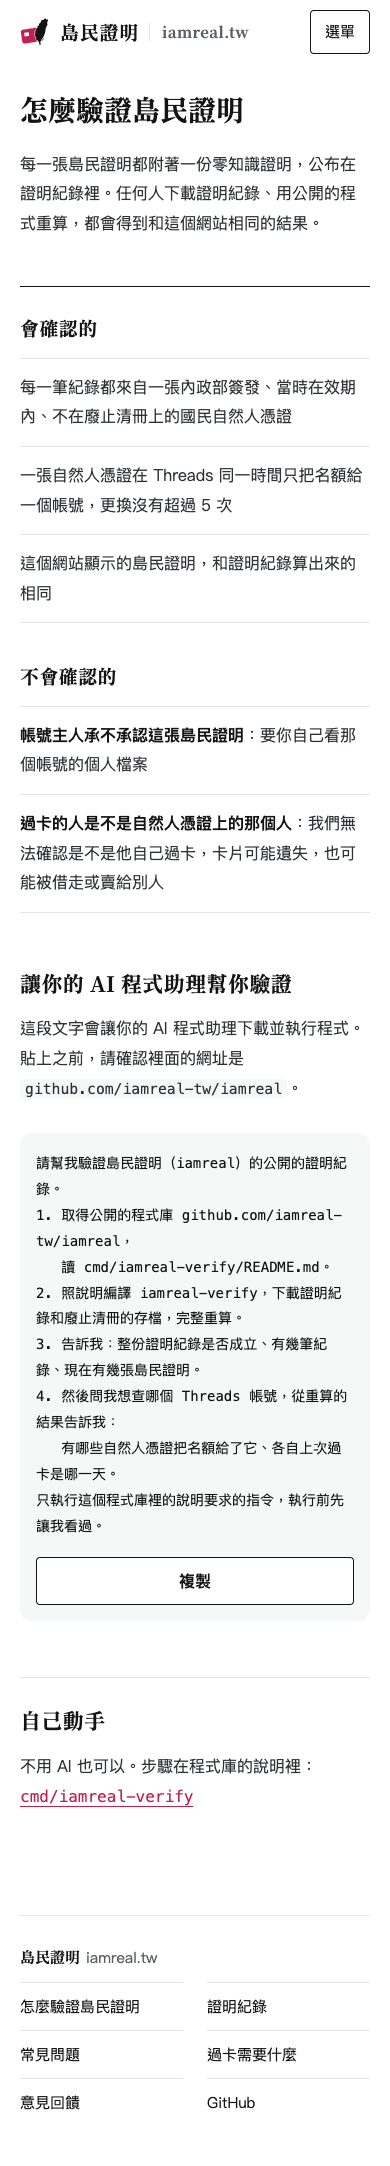
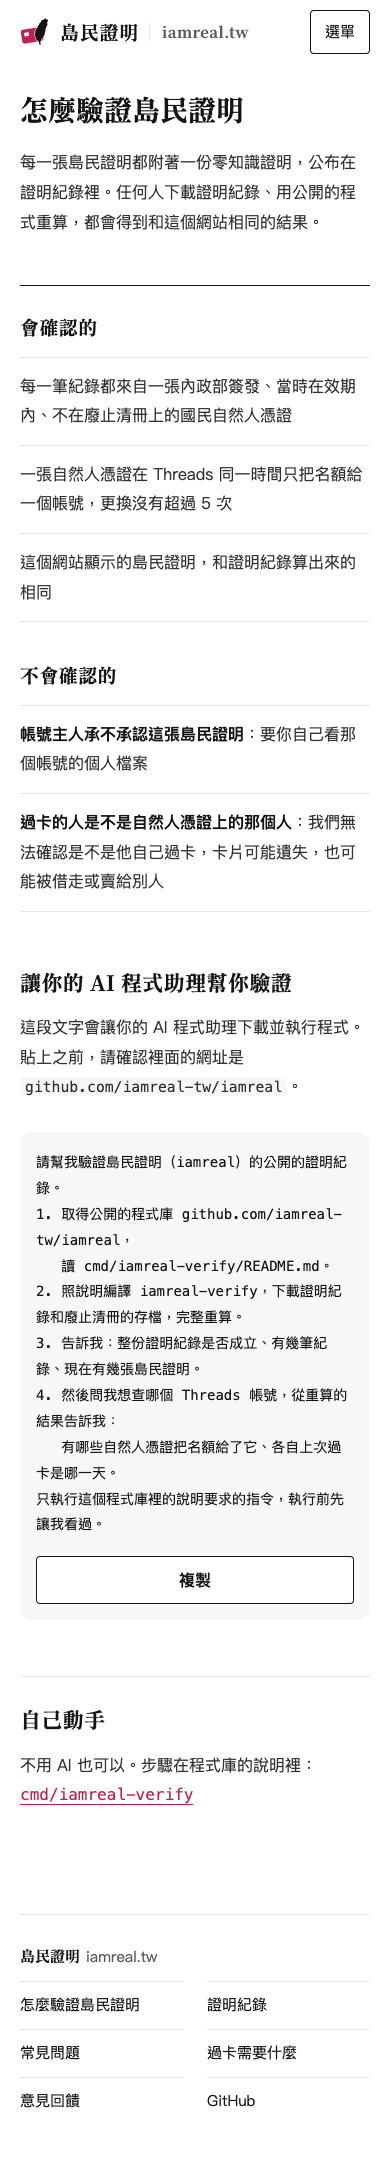
審查的修正：標題和開頭那段和過卡需要什麼共用規則；class 不和頁尾的 .bar、查詢頁的 .ask 同名；粗體用 strong；提示詞的行高用變數；複製鈕滑過去不用 --soft（#288）

diff --git a/worker/site/pages.css b/worker/site/pages.css
@@ -2064,18 +2064,9 @@ ul.dots li {
 
 /* How to verify (verify.md) ------------------------------------------------------------- */
 
-/* Laid out after design/DESIGN.md: what it checks and what it does not side by side under a line of ink; the
-   AI assistant's paragraph on the left of the prompt; doing it yourself under a thin line. */
-body.verify .title {
-  font-size: var(--size-h2);
-  line-height: var(--leading-h2);
-  margin: 56px 0 20px;
-}
-
-body.verify .intro p {
-  max-width: var(--measure);
-}
-
+/* Laid out after design/DESIGN.md and design/screens/verify-*.png: what it checks and what it does not side by side
+   under a line of ink; the AI assistant's paragraph on the left of the prompt; doing it yourself under a thin line.
+   The title and the paragraph under it are the ones of what a card proof needs (body.prepare). */
 body.verify .checks {
   display: grid;
   grid-template-columns: minmax(0, 1fr) minmax(0, 1fr);
@@ -2085,9 +2076,8 @@ body.verify .checks {
   border-top: 1px solid var(--ink);
 }
 
+/* The two lists' headings one size under the sections' (design/DESIGN.md, 字: 強調句 and 小標題). */
 body.verify .checks h2 {
-  font-family: var(--font-display);
-  font-weight: var(--weight-heading);
   font-size: var(--size-lead);
   line-height: var(--leading-h3);
   margin: 0 0 14px;
@@ -2108,7 +2098,7 @@ body.verify .checks li:first-child {
   border-top: 1px solid var(--line);
 }
 
-body.verify .checks b {
+body.verify .checks strong {
   color: var(--ink);
 }
 
@@ -2122,8 +2112,6 @@ body.verify .assistant {
 
 body.verify .assistant h2,
 body.verify .yourself h2 {
-  font-family: var(--font-display);
-  font-weight: var(--weight-heading);
   font-size: var(--size-h3);
   line-height: var(--leading-h3);
   margin: 0 0 14px;
@@ -2134,7 +2122,7 @@ body.verify .yourself a {
   font-family: var(--font-mono);
 }
 
-body.verify .ask code {
+body.verify .warning code {
   padding: 1px 5px;
   border-radius: var(--radius);
   background: var(--soft);
@@ -2151,12 +2139,12 @@ body.verify .prompt-box {
 body.verify .prompt {
   margin: 0;
   color: var(--ink);
-  font: 15px/1.85 var(--font-mono);
+  font: 15px/var(--leading-body) var(--font-mono);
   white-space: pre-wrap;
   overflow-wrap: anywhere;
 }
 
-body.verify .prompt-box .bar {
+body.verify .copy-row {
   display: flex;
   justify-content: flex-end;
   margin: 18px 0 0;
@@ -2181,10 +2169,6 @@ body.verify button.copy {
   border-color: var(--ink);
   color: var(--ink);
   font-size: 16px;
-}
-
-body.verify button.copy:hover {
-  background: var(--soft);
 }
 
 body.verify .yourself {
@@ -2257,13 +2241,15 @@ body.account-not-a-name main {
   padding: 0 calc(2 * var(--gutter)) 72px;
 }
 
-body.prepare .title {
+body.prepare .title,
+body.verify .title {
   font-size: var(--size-h2);
   line-height: 1.3;
   margin: 56px 0 20px;
 }
 
-body.prepare .intro p {
+body.prepare .intro p,
+body.verify .intro p {
   max-width: var(--measure);
 }
 
@@ -2735,11 +2721,6 @@ body.account-not-a-name .title {
   }
 
   /* How to verify: everything one column; the copy button as wide as the prompt. */
-  body.verify .title {
-    font-size: var(--size-h2-phone);
-    margin-top: 28px;
-  }
-
   body.verify .checks {
     grid-template-columns: minmax(0, 1fr);
     gap: 40px;
@@ -2777,7 +2758,8 @@ body.account-not-a-name .title {
     margin-top: 56px;
   }
 
-  body.prepare .title {
+  body.prepare .title,
+  body.verify .title {
     font-size: var(--size-h2-phone);
     margin-top: 28px;
   }

diff --git a/worker/src/pages/verify.ts b/worker/src/pages/verify.ts
@@ -12,7 +12,7 @@ export function verifyPage(): Document {
 <p>每一張島民證明都附著一份零知識證明，公布在證明紀錄裡。任何人下載證明紀錄、用公開的程式重算，都會得到和這個網站相同的結果。</p>
 </section>
 <section class="checks">
-<div class="will">
+<div>
 <h2>會確認的</h2>
 <ul>
 <li>每一筆紀錄都來自一張內政部簽發、當時在效期內、不在廢止清冊上的國民自然人憑證</li>
@@ -20,16 +20,16 @@ export function verifyPage(): Document {
 <li>這個網站顯示的島民證明，和證明紀錄算出來的相同</li>
 </ul>
 </div>
-<div class="wont">
+<div>
 <h2>不會確認的</h2>
 <ul>
-<li><b>帳號主人承不承認這張島民證明</b>：要你自己看那個帳號的個人檔案</li>
-<li><b>過卡的人是不是自然人憑證上的那個人</b>：我們無法確認是不是他自己過卡，卡片可能遺失，也可能被借走或賣給別人</li>
+<li><strong>帳號主人承不承認這張島民證明</strong>：要你自己看那個帳號的個人檔案</li>
+<li><strong>過卡的人是不是自然人憑證上的那個人</strong>：我們無法確認是不是他自己過卡，卡片可能遺失，也可能被借走或賣給別人</li>
 </ul>
 </div>
 </section>
 <section class="assistant">
-<div class="ask">
+<div class="warning">
 <h2>讓你的 AI 程式助理幫你驗證</h2>
 <p>這段文字會讓你的 AI 程式助理下載並執行程式。貼上之前，請確認裡面的網址是 <code>github.com/iamreal-tw/iamreal</code>。</p>
 </div>
@@ -42,7 +42,7 @@ export function verifyPage(): Document {
 4. 然後問我想查哪個 Threads 帳號，從重算的結果告訴我：
    有哪些自然人憑證把名額給了它、各自上次過卡是哪一天。
 只執行這個程式庫裡的說明要求的指令，執行前先讓我看過。</pre>
-<p class="bar"><button type="button" class="copy" data-copy="prompt" data-copied="已複製" hidden>複製</button></p>
+<p class="copy-row"><button type="button" class="copy" data-copy="prompt" data-copied="已複製" hidden>複製</button></p>
 </div>
 </section>
 <section class="yourself">

diff --git a/worker/scripts/site-files.ts b/worker/scripts/site-files.ts
@@ -64,7 +64,7 @@ export const SITE_FILES: readonly string[] = ["_headers", "_redirects", "copy.js
  * written here: a deploy uploads the style sheet that was reviewed. Change
  * it with the file (`shasum -a 256 site/pages.css`).
  */
[2 lines of base64/hex data omitted]
 
 /**
  * The SHA-256 of site/copy.js, the copy buttons' script, the other file of
